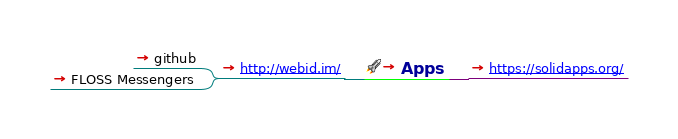
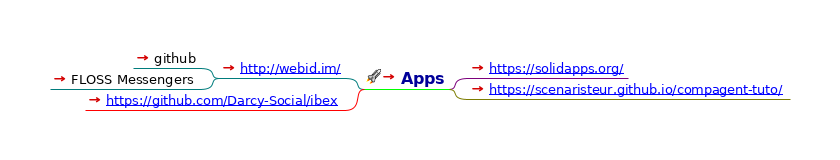
add apps

Changed region(s): [[0.0619, 0.3165, 0.9602, 0.7194]]

diff --git a/apps/index.html b/apps/index.html
@@ -23,16 +23,22 @@
                    };
                };
           
-          --></script></head><body><h1>Apps</h1><div style="width:96%;  padding:2%;  margin-bottom:10px;  border: 0px;  text-align:center;  vertical-align:center;"><img src="index.html_files/image.png" style="margin-bottom:10px; &#9;border: 0px; &#9;text-align:center; &#9;vertical-align:center;" alt="Imagemap" usemap="#fm_imagemap" /></div><map name="fm_imagemap" id="fm_imagemap"><area shape="rect" href="../index.html" alt="Apps" title="Apps" coords="364,59,449,79" />
+          --></script></head><body><h1>Apps</h1><div style="width:96%;  padding:2%;  margin-bottom:10px;  border: 0px;  text-align:center;  vertical-align:center;"><img src="index.html_files/image.png" style="margin-bottom:10px; &#9;border: 0px; &#9;text-align:center; &#9;vertical-align:center;" alt="Imagemap" usemap="#fm_imagemap" /></div><map name="fm_imagemap" id="fm_imagemap"><area shape="rect" href="../index.html" alt="Apps" title="Apps" coords="364,69,449,89" />
 <area shape="rect" href="https://solidapps.org/" alt="https://solidapps.org/" title="https://solidapps.org/" coords="468,60,628,78" />
 <area shape="rect" href="http://webid.im/" alt="http://webid.im/" title="http://webid.im/" coords="219,60,345,78" />
 <area shape="rect" href="https://github.com/melvincarvalho/webid.im" alt="github" title="github" coords="133,50,200,68" />
 <area shape="rect" href="https://github.com/melvincarvalho/webid.im/wiki/FLOSS-Messengers" alt="FLOSS Messengers" title="FLOSS Messengers" coords="50,71,200,89" />
+<area shape="rect" href="https://scenaristeur.github.io/compagent-tuto/" alt="https://scenaristeur.github.io/compagent ..." title="https://scenaristeur.github.io/compagent ..." coords="468,81,790,99" />
+<area shape="rect" href="https://github.com/Darcy-Social/ibex" alt="https://github.com/Darcy-Social/ibex " title="https://github.com/Darcy-Social/ibex " coords="85,92,345,110" />
 </map>
 
 <div class="node"><img src="index.html_files/hide.png" class="hideshow" alt="hide" onClick="toggle(&quot;N65543&quot;)" id="imgN65543" /><img src="index.html_files/icons/launch.svg" alt="launch" /> <a id="FMID_527312312FM" /><div class="nodecontent" style="color:#000099;font-size:100%;font-weight:bold;"><a href="../index.html">Apps</a> <a href="../index.html"><img src="index.html_files/ilink.png" alt="User Link" style="border-width:0" /></a></div><div class="content" id="N65543"><div class="node"><img src="index.html_files/leaf.png" class="hideshow" alt="leaf" /><a id="FMID_1071946324FM" /><div class="nodecontent" style="color:#000000;font-size:83%;"><a href="https://solidapps.org/">
     <a http-equiv="content-type" content="text/html; charset=utf-8" href="https://solidapps.org/">https://solidapps.org/</a>
   </a> <a href="https://solidapps.org/"><img src="index.html_files/ilink.png" alt="User Link" style="border-width:0" /></a></div></div><div class="node"><img src="index.html_files/hide.png" class="hideshow" alt="hide" onClick="toggle(&quot;N66503&quot;)" id="imgN66503" /><a id="FMID_1285619201FM" /><div class="nodecontent" style="color:#000000;font-size:83%;"><a href="http://webid.im/">
     <a http-equiv="content-type" content="text/html; charset=utf-8" href="http://webid.im/">http://webid.im/</a>
-  </a> <a href="http://webid.im/"><img src="index.html_files/ilink.png" alt="User Link" style="border-width:0" /></a></div><div class="content" id="N66503"><div class="node"><img src="index.html_files/leaf.png" class="hideshow" alt="leaf" /><a id="FMID_1449615970FM" /><div class="nodecontent" style="color:#000000;font-size:83%;"><a href="https://github.com/melvincarvalho/webid.im">github</a> <a href="https://github.com/melvincarvalho/webid.im"><img src="index.html_files/ilink.png" alt="User Link" style="border-width:0" /></a></div></div><div class="node"><img src="index.html_files/leaf.png" class="hideshow" alt="leaf" /><a id="FMID_1381129542FM" /><div class="nodecontent" style="color:#000000;font-size:83%;"><a href="https://github.com/melvincarvalho/webid.im/wiki/FLOSS-Messengers">FLOSS Messengers</a> <a href="https://github.com/melvincarvalho/webid.im/wiki/FLOSS-Messengers"><img src="index.html_files/ilink.png" alt="User Link" style="border-width:0" /></a></div></div></div></div></div></div>
+  </a> <a href="http://webid.im/"><img src="index.html_files/ilink.png" alt="User Link" style="border-width:0" /></a></div><div class="content" id="N66503"><div class="node"><img src="index.html_files/leaf.png" class="hideshow" alt="leaf" /><a id="FMID_1449615970FM" /><div class="nodecontent" style="color:#000000;font-size:83%;"><a href="https://github.com/melvincarvalho/webid.im">github</a> <a href="https://github.com/melvincarvalho/webid.im"><img src="index.html_files/ilink.png" alt="User Link" style="border-width:0" /></a></div></div><div class="node"><img src="index.html_files/leaf.png" class="hideshow" alt="leaf" /><a id="FMID_1381129542FM" /><div class="nodecontent" style="color:#000000;font-size:83%;"><a href="https://github.com/melvincarvalho/webid.im/wiki/FLOSS-Messengers">FLOSS Messengers</a> <a href="https://github.com/melvincarvalho/webid.im/wiki/FLOSS-Messengers"><img src="index.html_files/ilink.png" alt="User Link" style="border-width:0" /></a></div></div></div></div><div class="node"><img src="index.html_files/leaf.png" class="hideshow" alt="leaf" /><a id="FMID_1009568646FM" /><div class="nodecontent" style="color:#000000;font-size:83%;"><a href="https://scenaristeur.github.io/compagent-tuto/">
+    <a http-equiv="content-type" content="text/html; charset=utf-8" href="https://scenaristeur.github.io/compagent-tuto/">https://scenaristeur.github.io/compagent-tuto/</a>
+  </a> <a href="https://scenaristeur.github.io/compagent-tuto/"><img src="index.html_files/ilink.png" alt="User Link" style="border-width:0" /></a></div></div><div class="node"><img src="index.html_files/leaf.png" class="hideshow" alt="leaf" /><a id="FMID_1493791154FM" /><div class="nodecontent" style="color:#000000;font-size:83%;"><a href="https://github.com/Darcy-Social/ibex">
+    <a http-equiv="content-type" content="text/html; charset=utf-8" href="https://github.com/Darcy-Social/ibex">https://github.com/Darcy-Social/ibex</a> 
+  </a> <a href="https://github.com/Darcy-Social/ibex"><img src="index.html_files/ilink.png" alt="User Link" style="border-width:0" /></a></div></div></div></div>
 </body></html>

diff --git a/index.html b/index.html
@@ -26,10 +26,10 @@
           --></script></head><body><h1>solid</h1><div style="width:96%;  padding:2%;  margin-bottom:10px;  border: 0px;  text-align:center;  vertical-align:center;"><img src="index.html_files/image.png" style="margin-bottom:10px; &#9;border: 0px; &#9;text-align:center; &#9;vertical-align:center;" alt="Imagemap" usemap="#fm_imagemap" /></div><map name="fm_imagemap" id="fm_imagemap"><area shape="rect" href="../tech/index.html" alt="solid" title="solid" coords="412,183,558,226" />
 <area shape="rect" href="apps/index.html" alt="Apps" title="Apps" coords="457,50,526,70" />
 <area shape="rect" href="spec/index.html" alt="spec" title="spec" coords="577,175,639,194" />
-<area shape="rect" href="#FMID_1810859973FM" alt="Tools" title="Tools" coords="462,308,534,328" />
-<area shape="rect" href="https://github.com/solid/data-kitchen" alt="Data Kitchen" title="Data Kitchen" coords="553,288,663,306" />
-<area shape="rect" href="https://github.com/jvilk/BrowserFS" alt="BrowserFS" title="BrowserFS" coords="553,309,647,327" />
-<area shape="rect" href="https://github.com/fuse-friends/fuse-native" alt="Fuse library" title="Fuse library" coords="553,330,655,348" />
+<area shape="rect" href="#FMID_1810859973FM" alt="Tools" title="Tools" coords="462,308,533,328" />
+<area shape="rect" href="https://github.com/solid/data-kitchen" alt="Data Kitchen" title="Data Kitchen" coords="552,288,662,306" />
+<area shape="rect" href="https://github.com/jvilk/BrowserFS" alt="BrowserFS" title="BrowserFS" coords="552,309,646,327" />
+<area shape="rect" href="https://github.com/fuse-friends/fuse-native" alt="Fuse library" title="Fuse library" coords="552,330,654,348" />
 <area shape="rect" href="#FMID_777477932FM" alt="Links" title="Links" coords="323,194,393,214" />
 <area shape="rect" href="https://solid.mit.edu" alt="MIT" title="MIT" coords="256,152,304,170" />
 <area shape="rect" href="#FMID_1604622862FM" alt="Specs" title="Specs" coords="261,175,304,193" />

diff --git a/apps/index.mm b/apps/index.mm
@@ -65,7 +65,7 @@
 </stylenode>
 </map_styles>
 </hook>
-<hook NAME="AutomaticEdgeColor" COUNTER="21" RULE="ON_BRANCH_CREATION"/>
+<hook NAME="AutomaticEdgeColor" COUNTER="23" RULE="ON_BRANCH_CREATION"/>
 <node POSITION="right" ID="ID_1071946324" CREATED="1578130074773" MODIFIED="1578130074779" LINK="https://solidapps.org/"><richcontent TYPE="NODE">
 
 <html>
@@ -93,6 +93,33 @@
 <edge COLOR="#007c7c"/>
 <node TEXT="github" ID="ID_1449615970" CREATED="1578215609149" MODIFIED="1578215613495" LINK="https://github.com/melvincarvalho/webid.im"/>
 <node TEXT="FLOSS Messengers" ID="ID_1381129542" CREATED="1578215615257" MODIFIED="1578215629820" LINK="https://github.com/melvincarvalho/webid.im/wiki/FLOSS-Messengers"/>
+</node>
+<node POSITION="right" ID="ID_1009568646" CREATED="1578425918655" MODIFIED="1578497874089" LINK="https://scenaristeur.github.io/compagent-tuto/"><richcontent TYPE="NODE">
+
+<html>
+  <head>
+    
+  </head>
+  <body>
+    <a http-equiv="content-type" content="text/html; charset=utf-8" href="https://scenaristeur.github.io/compagent-tuto/">https://scenaristeur.github.io/compagent-tuto/</a> 
+  </body>
+</html>
+</richcontent>
+<edge COLOR="#7c7c00"/>
+</node>
+<node POSITION="left" ID="ID_1493791154" CREATED="1578497887712" MODIFIED="1578497887719" LINK="https://github.com/Darcy-Social/ibex"><richcontent TYPE="NODE">
+
+<html>
+  <head>
+    
+  </head>
+  <body>
+    <a http-equiv="content-type" content="text/html; charset=utf-8" href="https://github.com/Darcy-Social/ibex">https://github.com/Darcy-Social/ibex</a> 
+  </body>
+</html>
+
+</richcontent>
+<edge COLOR="#ff0000"/>
 </node>
 </node>
 </map>

diff --git a/index.mm b/index.mm
@@ -66,8 +66,8 @@
 </hook>
 <hook NAME="AutomaticEdgeColor" COUNTER="20" RULE="ON_BRANCH_CREATION"/>
 <node TEXT="Apps" POSITION="right" ID="ID_1861071781" CREATED="1578130056712" MODIFIED="1578130064770" LINK="apps/index.mm" COLOR="#000099" HGAP_QUANTITY="-75.99999731779107 pt" VSHIFT_QUANTITY="-77.24999769777067 pt">
-<edge STYLE="bezier" COLOR="#00ff00" WIDTH="thin"/>
 <font SIZE="12" BOLD="true"/>
+<edge STYLE="bezier" COLOR="#00ff00" WIDTH="thin"/>
 </node>
 <node TEXT="spec" POSITION="right" ID="ID_45632273" CREATED="1574934349622" MODIFIED="1574934358562" LINK="spec/index.mm">
 <edge STYLE="bezier" COLOR="#00007c" WIDTH="thin"/>
